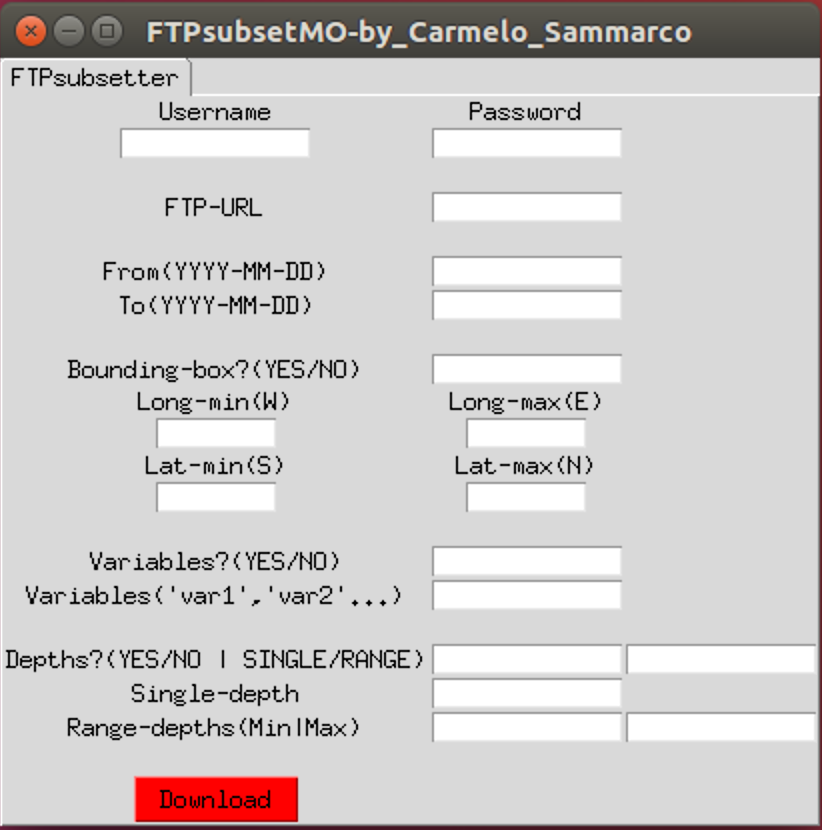
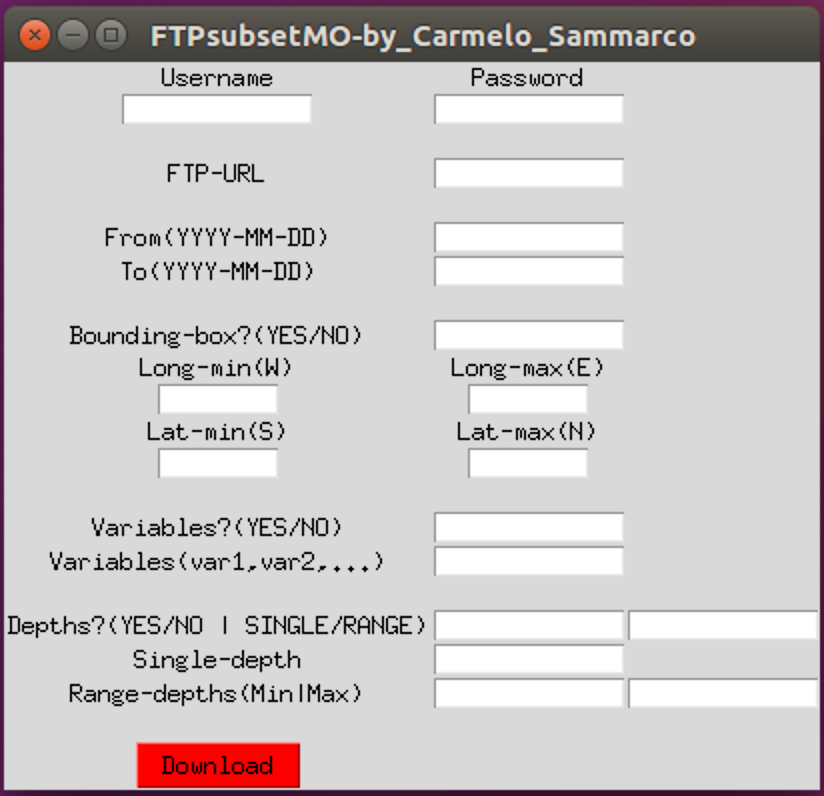
General update

Changed region(s): [[0.0, 0.0, 1.0, 1.0]]

diff --git a/setup.py b/setup.py
@@ -4,7 +4,7 @@ with open("README.md", "r", encoding="utf8") as fh:
     long_description = fh.read()
 
 setup(name='FTPsubsetMO',
-      version='0.4.1',
+      version='0.4.2',
       description='Python module able to download a file from FTP and subset it using time-range,bounding-box,variables and depths',
       long_description=long_description,
       long_description_content_type='text/markdown',

diff --git a/FTPsubsetMO/__main__.py b/FTPsubsetMO/__main__.py
@@ -48,7 +48,7 @@ def main(args=None):
     #image = pkg_resources.resource_filename('FTPsubsetMO', 'IMAGES/LOGO.gif')
     
     window.title("FTPsubsetMO-by_Carmelo_Sammarco")
-    window.geometry('500x600')
+    #window.geometry('500x600')
 
     
 
